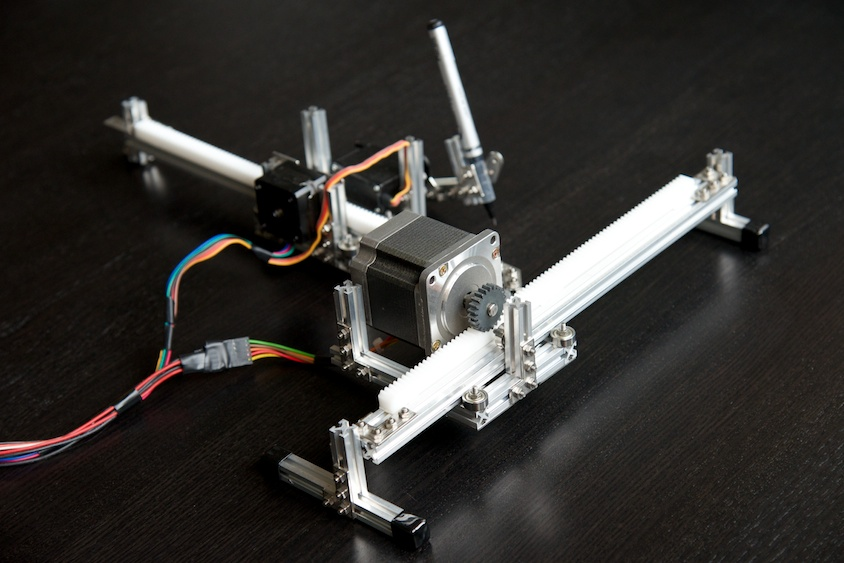
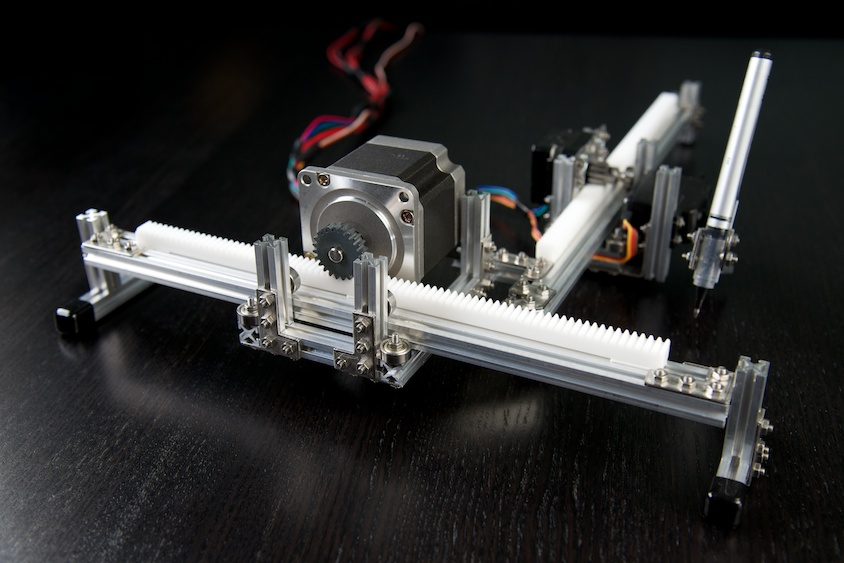
Updated docs.

diff --git a/index.html b/index.html
@@ -16,8 +16,9 @@
     <div class="wrapper">
       <header>
         <h1>Live Arduino Plotter</h1>
-        <p><a href="http://arduino.cc">Arduino</a> based plotter that can be controlled by drawing on an <a href="http://www.w3schools.com/html/html5_canvas.asp">html canvas</a> using <a href="http://www.websocket.org">websocket</a>s and <a href="http://www.arduino.cc/playground/Interfacing/Java">serial communication over usb</a>. See it in action on <a href="http://www.youtube.com/watch?v=Sn-WIluo1Us&feature=BFa&list=ULSC3hTZtnDt4">YouTube</a>. See also the similar <a href="http://roxen.github.com/polar-plotter/">Polar Plotter</a> project.</p>
-
+        <p><a href="http://arduino.cc">Arduino</a> based plotter that is controlled by drawing on an <a href="http://www.w3schools.com/html/html5_canvas.asp">html canvas</a> using <a href="http://www.websocket.org">websocket</a>s and <a href="http://www.arduino.cc/playground/Interfacing/Java">serial communication over usb</a>. See it in action on <a href="http://www.youtube.com/watch?v=Sn-WIluo1Us&feature=BFa&list=ULSC3hTZtnDt4">YouTube</a>.</p>
+        <p>For comments or questions, please use <a href="http://themakelog.blogspot.se/2012/11/live-plotter-on-arduino-using-canvas.html">this blog post</a>.</p>
+        <p>See also my similar <a href="http://roxen.github.com/polar-plotter/">Polar Plotter</a> project.</p>
         <p class="view"><a href="https://github.com/roxen/live-plotter">View the Project on GitHub <small>roxen/live-plotter</small></a></p>
 
 
@@ -42,10 +43,13 @@
         <p>This is what the plotter looks like</p>
         <p><img src="images/image7.jpg" alt="" /></p>
 
+        <p>And from above</p>
+        <p><img src="images/image8.jpg" alt="" /></p>
+
         <p>You draw on the canvas like so</p>
         <p><img src="images/canvas.png" /></p>
 
-        <p>And here is the plotter in action</p>
+        <p>And here it is in action</p>
         <div class="video-container">
           <iframe width="560" height="315" src="http://www.youtube.com/embed/Sn-WIluo1Us" frameborder="0" allowfullscreen></iframe>
         </div>
